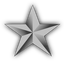
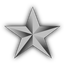
Make the ranks images scraper to center the actual image content

Changed region(s): [[0.0625, 0.0625, 0.9375, 0.9375], [0.5625, 0.5938, 0.5938, 0.625]]

diff --git a/rwr_scrapers.py b/rwr_scrapers.py
@@ -4,6 +4,7 @@ from io import BytesIO
 from PIL import Image
 from lxml import html
 import requests
+import math
 import re
 import os
 
@@ -125,9 +126,14 @@ class RanksImageScraper:
             # Resize it to fit in the self.rank_image_size dimension
             rank_image.thumbnail(self.rank_image_size, Image.ANTIALIAS)
 
+            paste_pos = (
+                math.floor(self.rank_image_size[0] / 2) - math.floor(rank_image.width / 2),
+                math.floor(self.rank_image_size[1] / 2) - math.floor(rank_image.height / 2)
+            )
+
             # Paste it in a new image, centered
             new_rank_image = Image.new('RGBA', self.rank_image_size)
-            new_rank_image.paste(rank_image)
+            new_rank_image.paste(rank_image, paste_pos)
             new_rank_image.save(os.path.join(self.output_dir, str(rank_id) + '.png'))
             # TODO Center the pasted image
 
